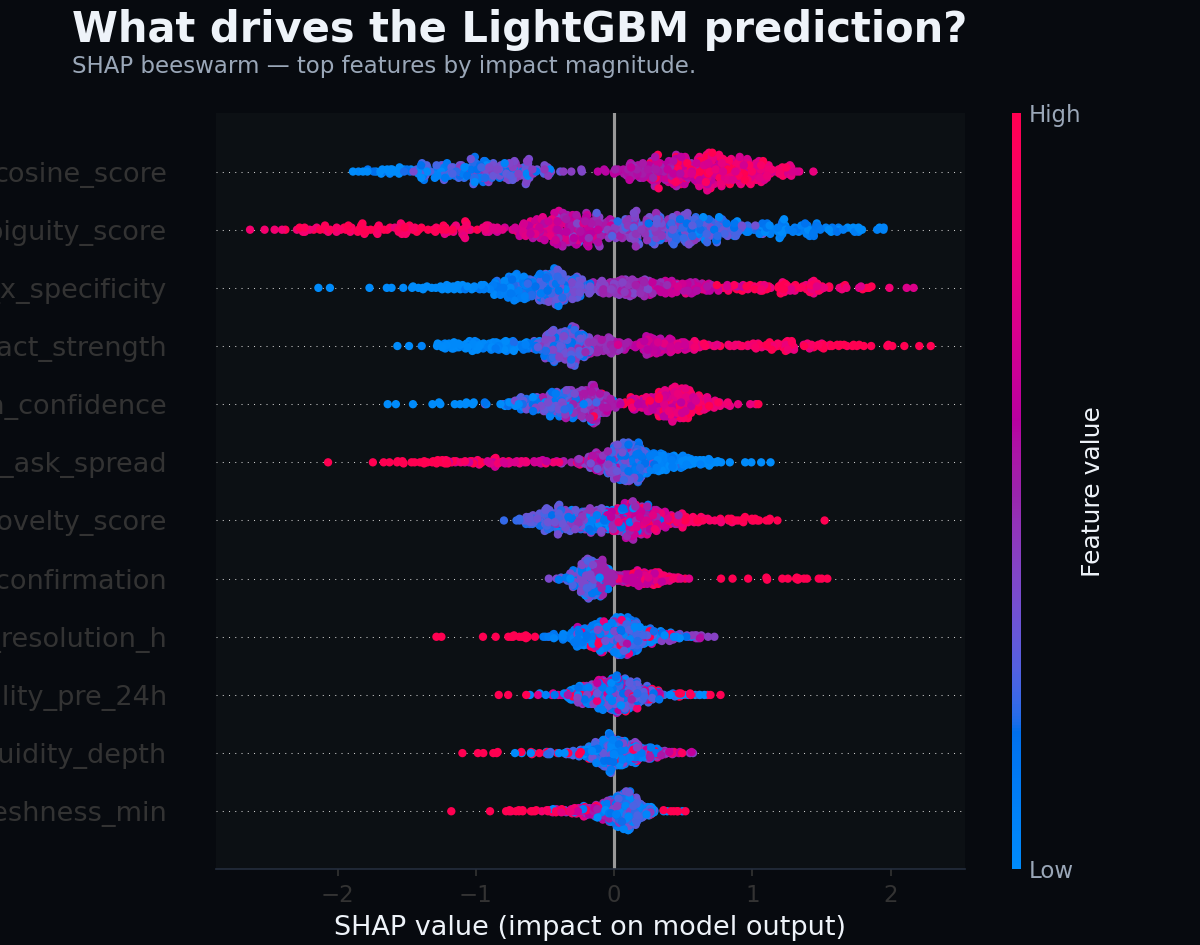
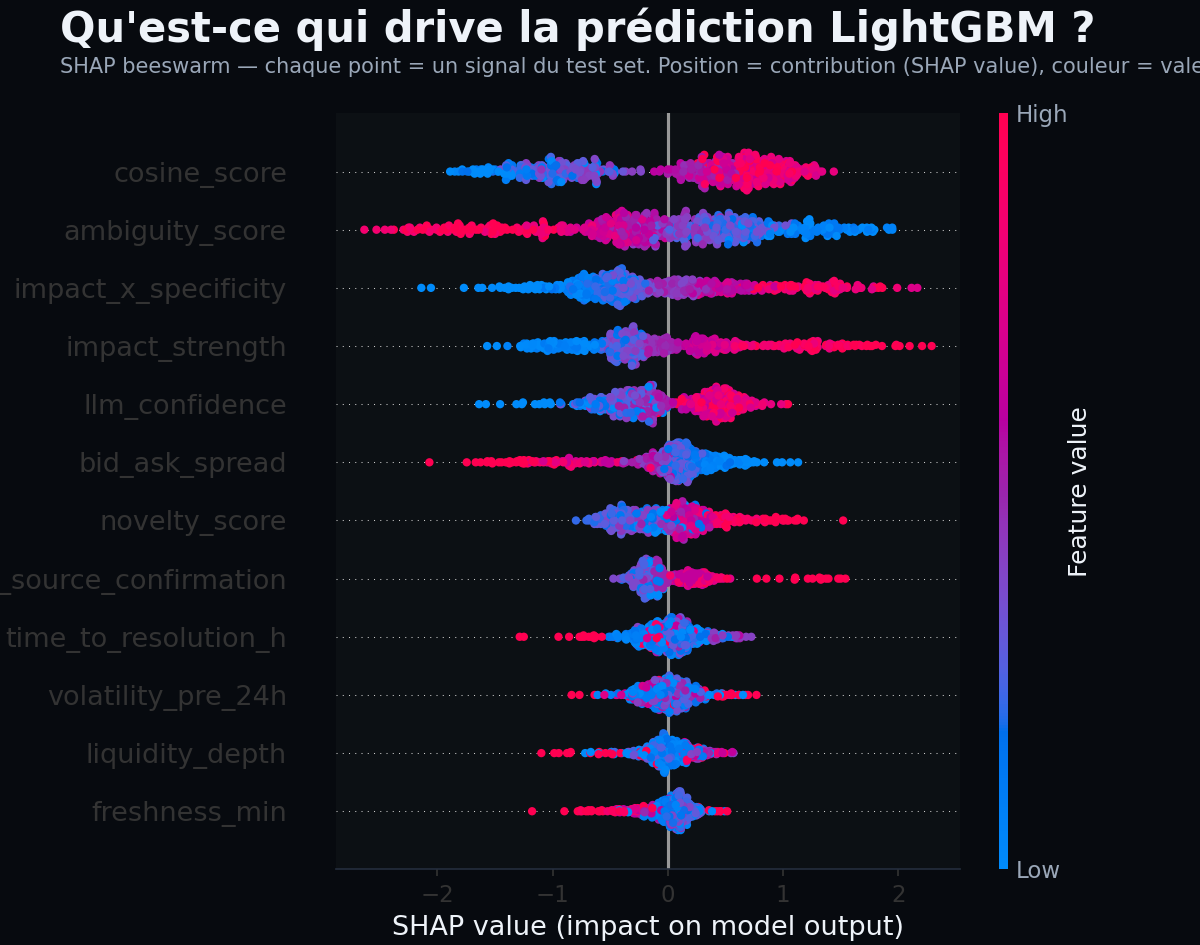
fix(figures): SHAP beeswarm — wider canvas + larger left margin so long feature names render uncropped
13in wide + 0.28 left margin (was 11in / 0.18). Title in FR, subtitle now explains
each visual encoding (point = signal, x = SHAP contribution, color = feature value,
order = global importance).

Long names like 'multi_source_confirmation' and 'impact_x_specificity' were
clipped on the left edge before. Now they fit.

diff --git a/scripts/make_figures.py b/scripts/make_figures.py
@@ -172,15 +172,21 @@ def fig_shap_beeswarm():
     names = list(payload["feature_names"])
 
     try:
-        fig = plt.figure(figsize=(11, 7.5), dpi=150, facecolor=P["bg"])
-        header = fig.add_axes([0.06, 0.92, 0.88, 0.06])
+        # Wider canvas (13" instead of 11") + larger left margin (0.28 instead of
+        # 0.18) so long feature names like multi_source_confirmation and
+        # impact_x_specificity fit without cropping on the left.
+        fig = plt.figure(figsize=(13, 7.5), dpi=150, facecolor=P["bg"])
+        header = fig.add_axes([0.05, 0.92, 0.90, 0.06])
         header.axis("off")
-        header.text(0, 0.6, "What drives the LightGBM prediction?",
+        header.text(0, 0.6, "Qu'est-ce qui drive la prédiction LightGBM ?",
                     color=P["ink"], fontsize=20, fontweight="bold")
-        header.text(0, 0.05, "SHAP beeswarm — top features by impact magnitude.",
-                    color=P["muted"], fontsize=11)
+        header.text(0, 0.05,
+                    "SHAP beeswarm — chaque point = un signal du test set. "
+                    "Position = contribution (SHAP value), couleur = valeur du feature "
+                    "(rouge haut, bleu bas), ordre = importance globale (top 12).",
+                    color=P["muted"], fontsize=10)
 
-        ax = fig.add_axes([0.18, 0.08, 0.78, 0.80])
+        ax = fig.add_axes([0.28, 0.08, 0.65, 0.80])
         ax.set_facecolor(P["card"])
         shap.summary_plot(
             values, features=data, feature_names=names,
